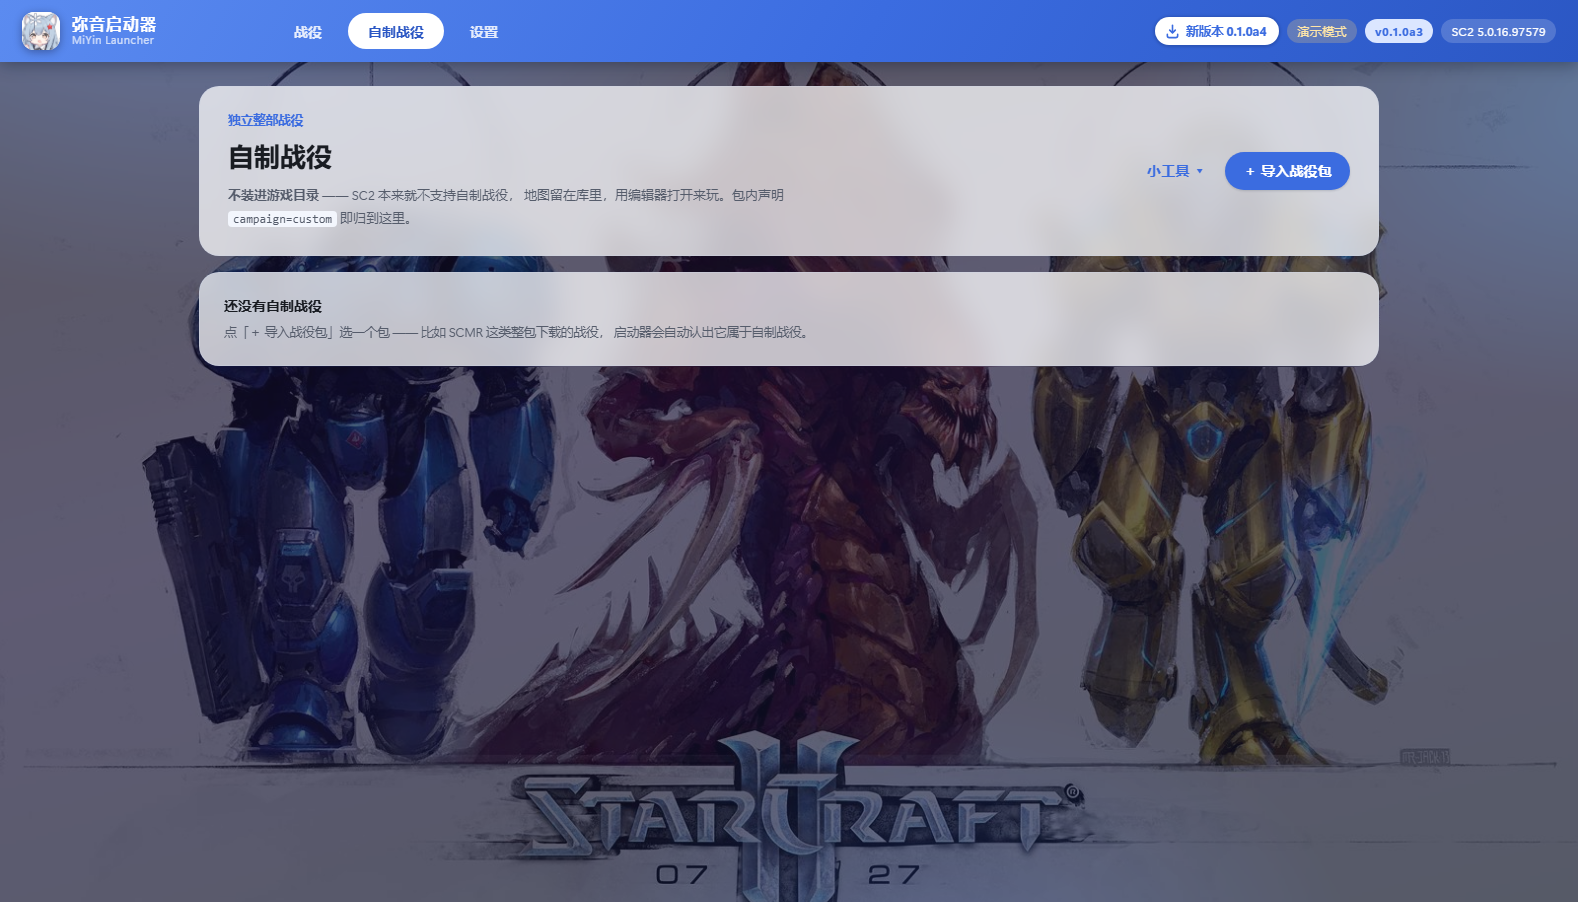
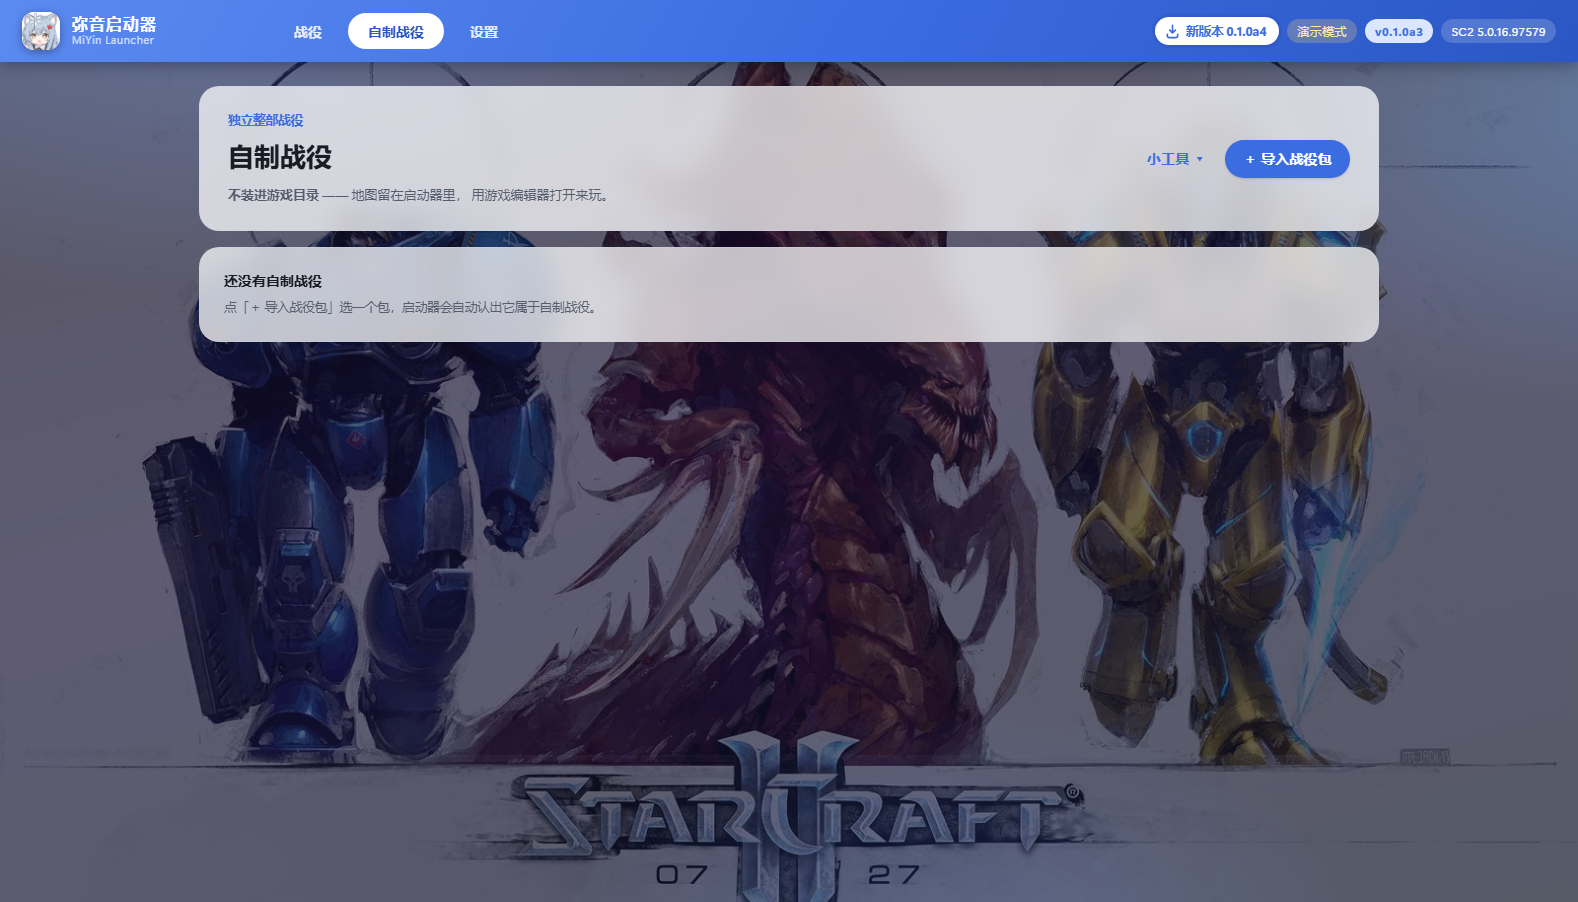
fix(ui): 界面文案去掉解释实现的话，改说用户看得懂的事
用户不该在界面上读到「我们是怎么写的」——只该读到「你会看到什么 / 该怎么做」。
清掉这几类：

- 实现理由：「SC2 本来就不支持自制战役」「地图里写死了 Mods\xxx.SC2Mod 依赖路径」
  「不同战役的模组会互相打架」
- 包格式细节：「包内声明 campaign=custom 即归到这里」（这是给包作者看的，属于文档）
- 技术术语：「证据链」「启发式」「越界路径条目（zip-slip）」「解析元数据」
  「事务化落盘」「路径白名单」「解析符号链接」
- 内部路径：「Support64/SC2Editor_x64.exe」
- 口头禅：「白折腾一趟」「这一步得你自己点」

改后（举例）：
  挂载模组：地图需要这些模组才能正常打开。不同战役的模组可能互相冲突，
           按需勾选即可；一个都不挂的话，地图打开会报错。
  强改归属：这个包属于「虚空之遗」。装到别的战役里，地图会落在游戏找不到的位置 ——
           多半进游戏后找不到关卡，玩不了。
  安装与安全：出错不会留下半成品 / 只往游戏目录里写 / 中文不会乱码。
  编辑器引导：编辑器已打开这张地图，按 Ctrl+F9（菜单「测试文档」）就能进入游戏。

诚实标注的规矩不变（§14.8）：自动识别仍然写「自动识别」，不说成确定的；
只是不再跟用户解释我们用的是什么手法。

fmt / clippy 零告警，133 测试通过，前端类型检查通过。

diff --git a/ui/src/views/SettingsView.vue b/ui/src/views/SettingsView.vue
@@ -59,7 +59,7 @@ const rows = computed(() => {
       <p class="path">{{ libraryRoot || "（未初始化）" }}</p>
       <p class="hint">
         导入的每个玩家版本都完整保存在这里（软件同级的 data 目录），与游戏目录解耦。
-        同一个战役可以并存多个版本，切换时只把选中的那一份铺进游戏目录。
+        同一个战役可以并存多个版本，切换时只启用选中的那一份。
       </p>
     </section>
 
@@ -69,27 +69,26 @@ const rows = computed(() => {
       </header>
       <ul class="notes">
         <li>
-          <strong>导入前先核对。</strong>
-          压缩包会先被完整读一遍：确认格式、解析元数据、检查是否存在越界路径条目
-          （zip-slip）、统计解压后体积。这一步不写入任何文件。
+          <strong>导入前先看一遍。</strong>
+          打开压缩包时只做检查 —— 确认里面是不是战役包、有没有危险的文件路径、
+          解开后有多大。这一步不写任何文件。
         </li>
         <li>
-          <strong>事务化落盘。</strong>
-          内容先解压到暂存目录，校验通过后整体改名进库；失败自动清理，
-          不会留下半个版本。
+          <strong>出错不会留下半成品。</strong>
+          内容先解到临时目录，确认完整了才正式入库；中途失败会自动清理干净。
         </li>
         <li>
           <strong>切换只动自己放的文件。</strong>
-          启用某个版本时，我们放进去的每个文件都被记账；切回原版时只删这些文件。
-          遇到同名官方文件会先挪进备份区，切回时原样还原 —— 全程不对官方目录做递归删除。
+          启用某个版本时，放进去的每个文件都会记账；切回原版时只删这些文件。
+          遇到同名的官方文件会先备份，切回时原样还原 —— 不会去删官方目录。
         </li>
         <li>
-          <strong>路径白名单。</strong>
-          所有写操作都要求目标位于游戏目录之内，并会解析符号链接后再校验一次。
+          <strong>只往游戏目录里写。</strong>
+          所有写入都限制在游戏的 Maps / Mods 等目录之内，不会碰别的地方。
         </li>
         <li>
-          <strong>编码兼容。</strong>
-          元数据优先按 UTF-8 解码，失败自动退回 GBK，中文战役包不会变成乱码。
+          <strong>中文不会乱码。</strong>
+          包里的说明文字会自动识别编码，简繁中文的战役包都能正常显示。
         </li>
       </ul>
     </section>

diff --git a/ui/src/components/CustomCampaignPanel.vue b/ui/src/components/CustomCampaignPanel.vue
@@ -139,7 +139,7 @@ function showMapMenu(event: MouseEvent, map: MapEntry): void {
 
 /** 复制地图在库里的绝对路径。 */
 async function copyMapPath(map: MapEntry): Promise<void> {
-  const text = props.slot + "/" + props.variant.id + "/" + map.path;
+  const text = map.path;
   try {
     await navigator.clipboard.writeText(text);
     notify("success", "已复制：" + text);
@@ -212,7 +212,7 @@ async function launchAnyway(): Promise<void> {
       <div>
         <h3 class="custom__title">{{ variant.name }}</h3>
         <p class="custom__sub">
-          自制战役不装进游戏目录 —— 地图就在库里，用编辑器打开玩。
+          地图不装进游戏目录，用编辑器打开来玩。
           <span v-if="maps.length">共 {{ maps.length }} 张地图。</span>
         </p>
       </div>
@@ -242,8 +242,8 @@ async function launchAnyway(): Promise<void> {
         <span class="mount__count">已挂 {{ mountedCount }} / {{ mods.length }}</span>
       </div>
       <p class="mount__hint">
-        地图里写死了 <code>Mods\xxx.SC2Mod</code> 这种依赖路径，模组得铺进游戏目录才找得到。
-        不同战役的模组会互相打架，所以按需勾选；<strong>一个都不挂的话地图打不开</strong>。
+        地图需要这些模组才能正常打开。不同战役的模组可能互相冲突，按需勾选即可；
+        <strong>一个都不挂的话，地图打开会报错</strong>。
       </p>
       <ul class="mount__list">
         <li v-for="entry in mods" :key="entry.path" class="mod">
@@ -340,9 +340,8 @@ async function launchAnyway(): Promise<void> {
         <p class="sheet__text">
           这个战役带了 <strong>{{ mods.length }}</strong> 个模组，而你一个都没勾。
           <br /><br />
-          地图里声明了 <code>Mods\xxx.SC2Mod</code> 这样的依赖，
-          模组不在游戏目录里，打开地图会是一堆丢失的资源 ——
-          <strong>多半进去就报错或者满地紫色方块</strong>。
+          地图需要它们才能正常打开，现在直接启动，
+          <strong>多半会报错或者出现紫色方块</strong>。
         </p>
         <div class="sheet__actions">
           <button class="btn btn-text" type="button" @click="showMountWarning = false">

diff --git a/ui/src/components/ImportDialog.vue b/ui/src/components/ImportDialog.vue
@@ -47,7 +47,7 @@ const pendingName = computed(
 const sourceLabel = computed(() => {
   const source = preview.value?.source;
   if (source === "metadata") return "包内声明的资料片";
-  if (source === "inferred") return "自动识别（尽力而为）";
+  if (source === "inferred") return "自动识别";
   return "无法识别";
 });
 
@@ -55,8 +55,7 @@ const sourceLabel = computed(() => {
 const evidenceText = computed(() => {
   const found = inspection.value?.identification;
   if (!found) return "";
-  const rough = found.evidence === "map_name_prefix" ? "（启发式）" : "";
-  return "依据" + rough + "：" + found.detail;
+  return "依据：" + found.detail;
 });
 
 /**
@@ -298,7 +297,7 @@ defineExpose({ prepare, startImport, busy: importing, open: computed(() => pendi
         <input v-model="mountMods" type="checkbox" />
         <span>
           一起挂载这 <strong>{{ packageMods }}</strong> 个模组
-          <em>（自制战役的地图依赖它们，建议勾上；之后可以到战役页面里改）</em>
+          <em>（地图需要它们才能打开，建议勾上；之后可以到战役页面里改）</em>
         </span>
       </label>
 
@@ -372,12 +371,10 @@ defineExpose({ prepare, startImport, busy: importing, open: computed(() => pendi
       </div>
       <h3 class="sheet__title">确定改到「{{ chosenName }}」吗？</h3>
       <p class="sheet__text">
-        启动器<strong>确定</strong>这个包属于 <strong>{{ identifiedName }}</strong>，
-        依据是<strong>包内自己声明的资料片</strong>或精确的证据链。
+        这个包属于 <strong>{{ identifiedName }}</strong>。
         <br /><br />
-        强行装到别的战役里，地图会落在游戏不期待的位置 ——
-        <strong>多半进游戏后找不到关卡，直接玩不了</strong>。
-        装错了可以删掉重导，但白折腾一趟。
+        装到别的战役里，地图会落在游戏找不到的位置 ——
+        <strong>多半进游戏后找不到关卡，玩不了</strong>。
       </p>
       <div class="sheet__actions">
         <button class="btn btn-text" type="button" @click="importAnyway">

diff --git a/ui/src/views/CustomView.vue b/ui/src/views/CustomView.vue
@@ -68,8 +68,8 @@ function openTools(event: MouseEvent): void {
         <p class="hero__eyebrow">独立整部战役</p>
         <h2 class="hero__title">自制战役</h2>
         <p class="hero__text">
-          <strong>不装进游戏目录</strong> —— SC2 本来就不支持自制战役，
-          地图留在库里，用编辑器打开来玩。包内声明 <code>campaign=custom</code> 即归到这里。
+          <strong>不装进游戏目录</strong> —— 地图留在启动器里，
+          用游戏编辑器打开来玩。
         </p>
       </div>
 
@@ -93,8 +93,7 @@ function openTools(event: MouseEvent): void {
     <section v-if="!variants.length" class="empty">
       <p class="empty__title">还没有自制战役</p>
       <p class="empty__text">
-        点「＋ 导入战役包」选一个包 —— 比如 SCMR 这类整包下载的战役，
-        启动器会自动认出它属于自制战役。
+        点「＋ 导入战役包」选一个包，启动器会自动认出它属于自制战役。
       </p>
     </section>
 

diff --git a/ui/src/api/bridge.ts b/ui/src/api/bridge.ts
@@ -574,8 +574,7 @@ const demo: LauncherApi = {
     delay({
       editor: "D:\\Game\\BLZ\\StarCraft II\\Support64\\SC2Editor_x64.exe",
       map,
-      guidance:
-        "编辑器已经打开这张地图。接下来请按 Ctrl+F9（菜单「测试文档」）进入游戏 —— 这一步得你自己点。",
+      guidance: "编辑器已打开这张地图，按 Ctrl+F9（菜单「测试文档」）就能进入游戏。",
     }),
   variantDoc: () => delay(null),
   readDoc: () => delay(new ArrayBuffer(0)),

diff --git a/ui/src/views/SlotMenuView.vue b/ui/src/views/SlotMenuView.vue
@@ -340,7 +340,7 @@ async function doExport(mergePatches: boolean): Promise<void> {
         <h2 class="banner__title">{{ slot.display_name }}</h2>
         <p class="banner__sub">
           {{ isCustom
-            ? "自制战役不装进游戏目录 —— 挑一部，用编辑器打开它的地图来玩"
+            ? "挑一部战役，用编辑器打开它的地图来玩"
             : "选择要游玩的版本 —— 原版战役，或导入的玩家版本" }}
         </p>
       </div>

diff --git a/ui/src/components/DocViewer.vue b/ui/src/components/DocViewer.vue
@@ -136,7 +136,7 @@ onUnmounted(() => window.removeEventListener("keydown", onKey));
       </div>
 
       <footer class="doc__foot">
-        这一版是包自带的说明文档。<kbd>←</kbd> <kbd>→</kbd> 翻页，<kbd>Esc</kbd> 关闭。
+        <kbd>←</kbd> <kbd>→</kbd> 翻页 · <kbd>Esc</kbd> 关闭
       </footer>
     </div>
   </div>

diff --git a/src-tauri/src/lib.rs b/src-tauri/src/lib.rs
@@ -422,16 +422,16 @@ fn open_map_in_editor(
     state: State<'_, AppState>,
 ) -> Result<EditorLaunch, String> {
     let installation = require_installation(&state)?;
-    let editor = installation.editor.clone().ok_or_else(|| {
-        "没在安装目录里找到地图编辑器（Support64/SC2Editor_x64.exe）—— 到「设置」里重新指定游戏目录试试"
-            .to_string()
-    })?;
+    let editor = installation
+        .editor
+        .clone()
+        .ok_or_else(|| "没找到游戏编辑器 —— 到「设置」里重新指定游戏目录试试".to_string())?;
 
     // 带了模组却一个都没挂：先拦住，别让用户白白等编辑器起来再报错
     let mods = state.library.variant_mods(&slot, &variant_id);
     if !mods.is_empty() && !mods.iter().any(|item| item.mounted) {
         return Err(
-            "这个战役带了模组，但你一个都没挂载 —— 地图的依赖找不到，打开就是一堆丢失的资源。先在「挂载模组」里勾上再试"
+            "这个战役带了模组，但你一个都没挂载 —— 这样打开地图会报错。先在「挂载模组」里勾上再试"
                 .to_string(),
         );
     }
@@ -453,9 +453,7 @@ fn open_map_in_editor(
     Ok(EditorLaunch {
         editor: editor.display().to_string(),
         map,
-        guidance:
-            "编辑器已经打开这张地图。接下来请按 Ctrl+F9（菜单「测试文档」）进入游戏 —— 这一步得你自己点。"
-                .to_string(),
+        guidance: "编辑器已打开这张地图，按 Ctrl+F9（菜单「测试文档」）就能进入游戏。".to_string(),
     })
 }
 

diff --git a/crates/miyin-core/src/library/mod.rs b/crates/miyin-core/src/library/mod.rs
@@ -246,7 +246,7 @@ pub fn resolve_main_map(maps: &[MapEntry], declared: Option<&str>) -> MainMapCho
                 path: None,
                 automatic: false,
                 warning: Some(format!(
-                    "主地图写的是「{wanted}」，但这个版本里找不到这张地图 —— 请自己挑一张"
+                    "找不到「{wanted}」这张地图，请自己挑一张作为启动入口"
                 )),
             },
         };
